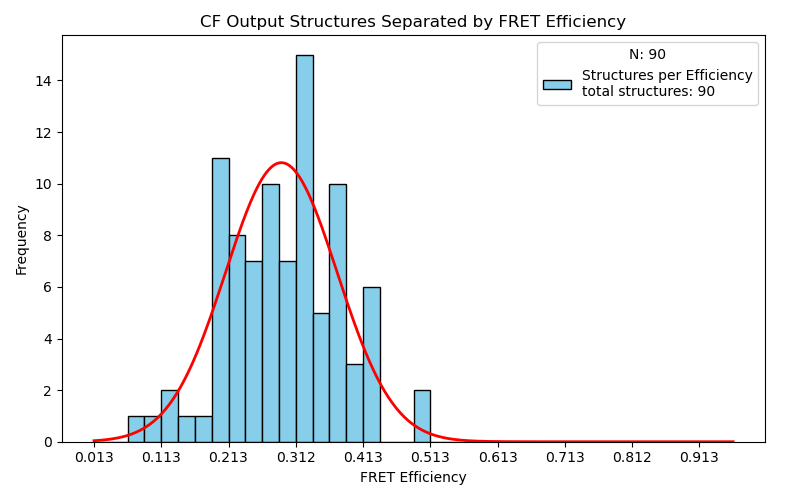
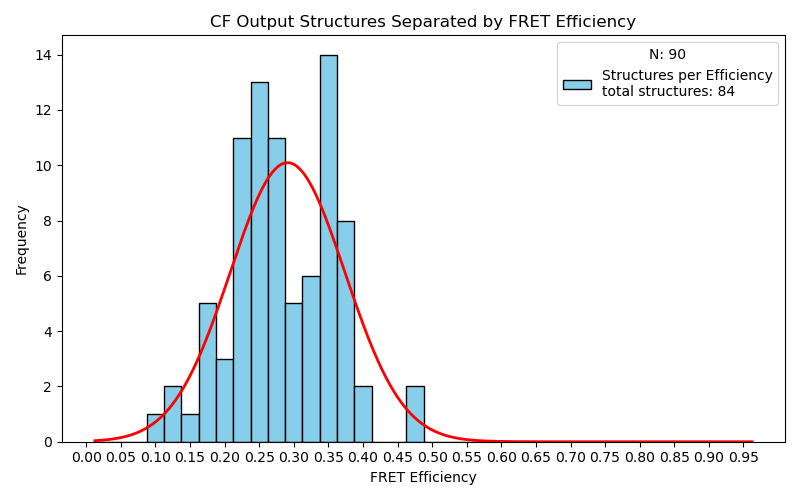
Updated wrapper to save raw output from colabfold iterations before performing filtering.

diff --git a/wrapper.py b/wrapper.py
@@ -346,6 +346,13 @@ def filter_output(run_number, jobs, script_path, n):
 
     # Save original distances using bins from build_distribution
     plot_and_save_distances(distances, run_number, bin_centers, n)
+
+    # Save raw colabfold output before duplications
+    raw_output_dir = "raw_output/"
+    subprocess.run(["mkdir", "-p", raw_output_dir])
+    subprocess.run(["cp", "-r", f"{outputdir}/", f"{raw_output_dir}/"])
+    subprocess.run(["mv", "-r", f"{raw_output_dir}/{outputdir}/", f"{raw_output_dir}/iteration{run_number}"])
+
     # If included_distances dictionary is still empty after checks,
     # proceed to next iteration with user provided templates 
     if not included_distances:
@@ -385,6 +392,7 @@ def filter_output(run_number, jobs, script_path, n):
             template_number = template_number + 1
 
         update_temp_dir(script_path, f"iterations/{temp_dir}")
+
         # Clear ouput directory
         if run_number < num_iterations:
             clear_directory(outputdir)

diff --git a/data_engine.py b/data_engine.py
@@ -21,7 +21,6 @@ def compute_E(distances, R_0=51):
 
 
 def graph_output_accuracy(efficiencies: dict, bins=0.025, graph_name=None, N=None) -> str:
-
     # Collect and convert distances
     effs = np.array([float(d) for d in efficiencies.values()])
     total_strucs = len(effs)
@@ -33,6 +32,7 @@ def graph_output_accuracy(efficiencies: dict, bins=0.025, graph_name=None, N=Non
         min_d = effs.min()
         max_d = effs.max()
         bin_edges = np.arange(min_d, max_d + bins, bins)
+        bin_edges = np.arange(0, 1 + bins, bins)
     else:
         # If bins is an array (from build_distribution), use it directly
         bin_edges = bins
@@ -48,7 +48,7 @@ def graph_output_accuracy(efficiencies: dict, bins=0.025, graph_name=None, N=Non
     plt.ylabel("Frequency")
     plt.legend(title=f"N: {N}")
 
-    xticks = np.arange(bin_edges.min(), bin_edges.max()+0.1, 0.1)
+    xticks = np.arange(0, 1, 0.05)
     plt.xticks(xticks)
     plt.tight_layout()
 

diff --git a/graphing.py b/graphing.py
@@ -3,7 +3,7 @@ import numpy as np
 import wrapper
 import data_engine as engine
 
-dirpath = "/Users/nikan/Documents/ma_lab/ColabFoldWrapper/graphing-utils/templates/iteration3"
+dirpath = "/Users/nikan/Documents/ma_lab/ColabFoldWrapper/graphing-utils/templates/iteration5"
 dir_contents = os.listdir(dirpath)
 
 distances = {}
